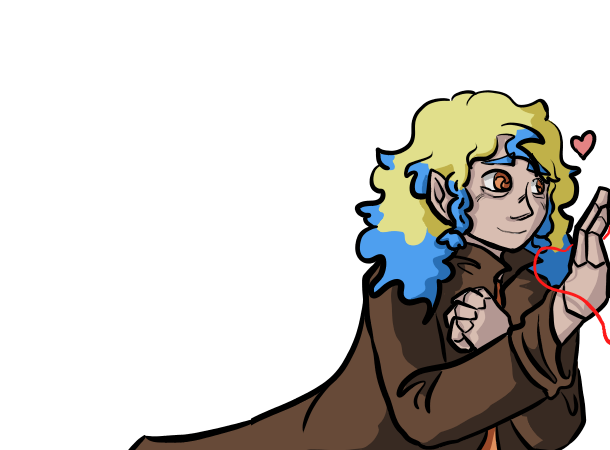
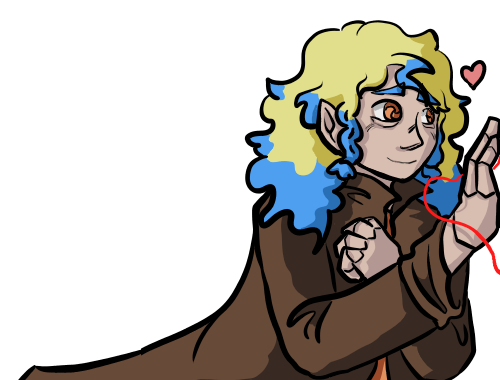
Rectifier bug, modification carte Vivalie

diff --git a/La guerre des guildes/Assets/Script/GameManager.cs b/La guerre des guildes/Assets/Script/GameManager.cs
@@ -364,11 +364,13 @@ public class GameManager : NetworkBehaviour
     public void CommencerLeJeu()
     {
         DecalageTour = 1;
-        if (TousLesJoueurs[1].Stratege.PMVar < TousLesJoueurs[0].Stratege.PMVar)
-        { DecalageTour = 0; }
-        if (TousLesJoueurs[1].Stratege.PMVar == TousLesJoueurs[0].Stratege.PMVar && UnityEngine.Random.Range(0, 2) == 1)
-        { DecalageTour = 0; }
-
+        if (TousLesJoueurs.Count >= 2)
+        {
+            if (TousLesJoueurs[1].Stratege.PMVar < TousLesJoueurs[0].Stratege.PMVar)
+            { DecalageTour = 0; }
+            if (TousLesJoueurs[1].Stratege.PMVar == TousLesJoueurs[0].Stratege.PMVar && UnityEngine.Random.Range(0, 2) == 1)
+            { DecalageTour = 0; }
+        }
         Tour = 1;
         EtatDuJeu = "Jouer";
         if (JoueurEnCours.Stratege != null)
